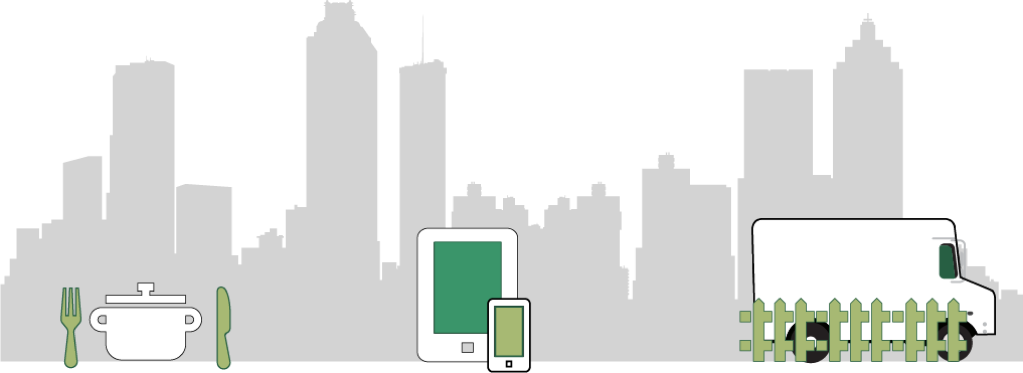
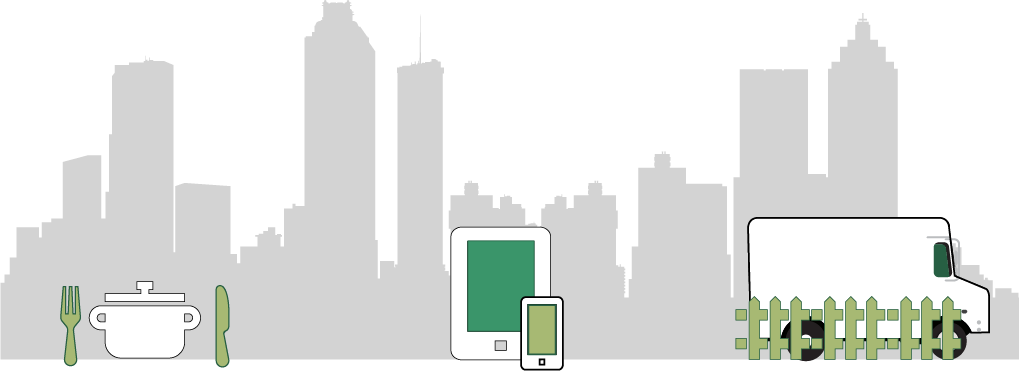
infographic section_aligning2

diff --git a/index.html b/index.html
@@ -62,20 +62,20 @@
         <div class="columns four">
           <h2>Hungry?</h2>
           <img src="images/clock-3x.png">
-          <p>Order food Near you or<br/> by your favorite Cuisine</p>
+          <p>Order food Near you or<br> by your favorite Cuisine</p>
 
         </div>
         <div class="columns four">
           <h2>Make a selection</h2>
           <img src="images/tap.png">
-          <p>Use our new Global Bites<br/>app to make your selection</p>
+          <p>Use our new Global Bites<br>app to make your selection</p>
           <a href="" class="button">Order Now</a> 
 
         </div>
         <div class="columns four">
           <h2>Fresh food delivered</h2>
           <img src="images/checked.png">
-          <p>Relax and enjoy great food<br/>with friends and family</p>
+          <p>Relax and enjoy great food<br>with friends and family</p>
 
         </div>
 
@@ -124,21 +124,25 @@
                   <a href="">Choose your city</a>
                 </li>
 
+                <li>
+                  <a href="">Become a member</a>
+                </li>
+
               </ul>
             </div>
             <div class="columns three">
               <h2>Connect</h2>
               <ul>
                 <li>
-                  <a href="">Facebook</a>
+                  <a class="Facebook" href="">Facebook</a>
                 </li>
 
                 <li>
-                  <a href="">Twitter</a>
+                  <a class="Twitter" href="">Twitter</a>
                 </li>
 
                 <li>
-                  <a href="">Instagram</a>
+                  <a class="Instagram" href="">Instagram</a>
                 </li>
               </ul>
             </div>

diff --git a/css/global-bites.css b/css/global-bites.css
@@ -34,14 +34,14 @@ header nav a:hover {
     background-position: top center;
     background size: cover;
     padding: 22em 4em 4em 4em;
-    text-align: center;
     display: block;
+    text-align: center;
 }
 
 .infographic h2 {
     font-size: 24px;
     color: #275f43;
-    margin: 60px;
+    margin-top: 60px;
     text-align: center;
     
 }
@@ -49,10 +49,13 @@ header nav a:hover {
     font-size: 18px;
     color: #3a956a;
     line-height: 22px;
-    padding: 20px;
+    margin-top: 15px;
+    text-align: center;
 }
+
 .infographic img {
-    margin: 10px;
+    margin-top: 5px;
+    
 
 }
 
@@ -64,6 +67,8 @@ header nav a:hover {
     background: #3A956A;
     border: 2px solid #359668;
     box-shadow: 0px 2px 0px 0px #275f43;
+    text-align: center;
+    margin-top: 5px;
 }
 
 .button a {
